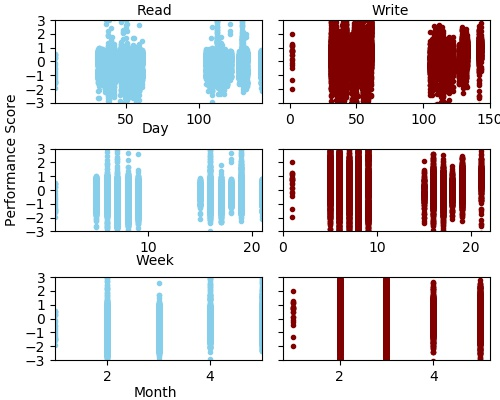
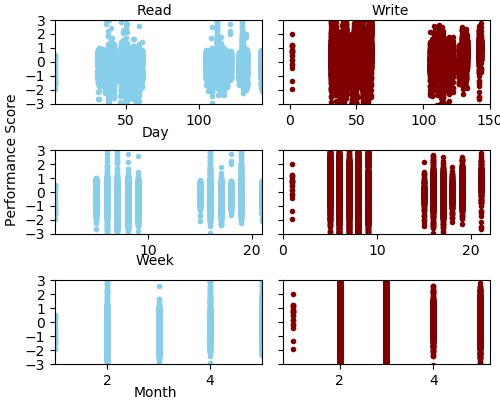
adjusting location of labels

diff --git a/example/simple_user.py b/example/simple_user.py
@@ -233,8 +233,8 @@ for app in top_apps:
         #axes[n][1].set_xlim([np.min(x), np.max(x)])
         #axes[n][1].set_title(op)
         #axes[n][1].set_xlabel("%s #"%x_axis)
-    fig.subplots_adjust(left=0.11, bottom=0.10, right=.98, top=.95, wspace=0.1, hspace=0.55)
-    fig.text(0.31, 0.66, x_axes[0], ha='center', va='bottom')
+    fig.subplots_adjust(left=0.11, bottom=0.09, right=.98, top=.95, wspace=0.1, hspace=0.55)
+    fig.text(0.31, 0.65, x_axes[0], ha='center', va='bottom')
     fig.text(0.31, 0.33, x_axes[1], ha='center', va='bottom')
     fig.text(0.31, 0.00, x_axes[2], ha='center', va='bottom')
     fig.text(0.01, 0.6, 'Performance Score', ha='left', va='center', rotation=90)
